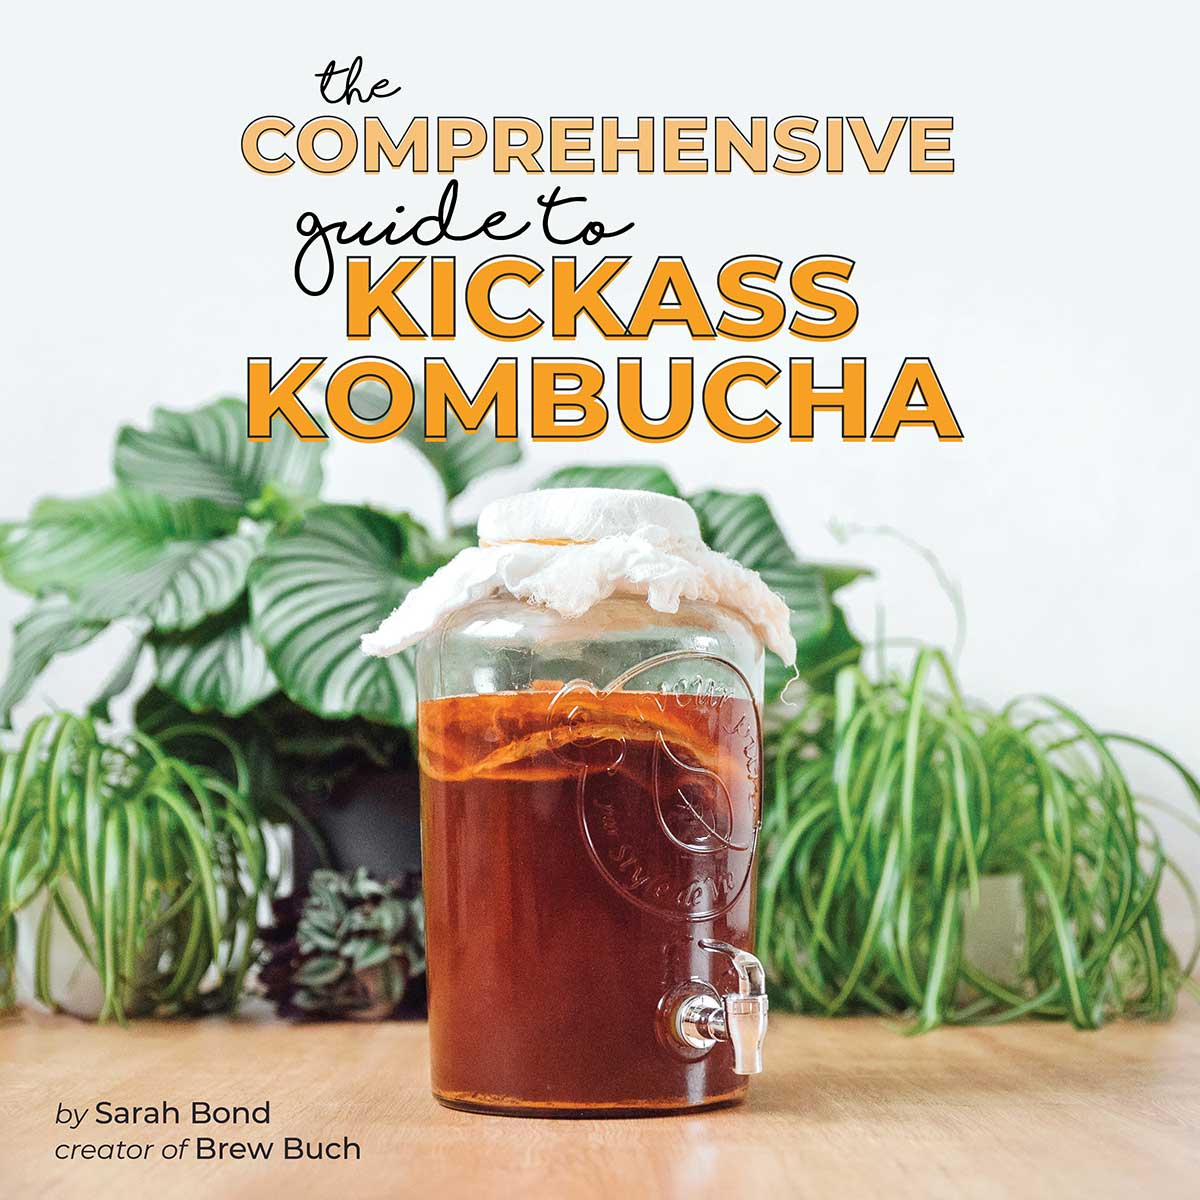
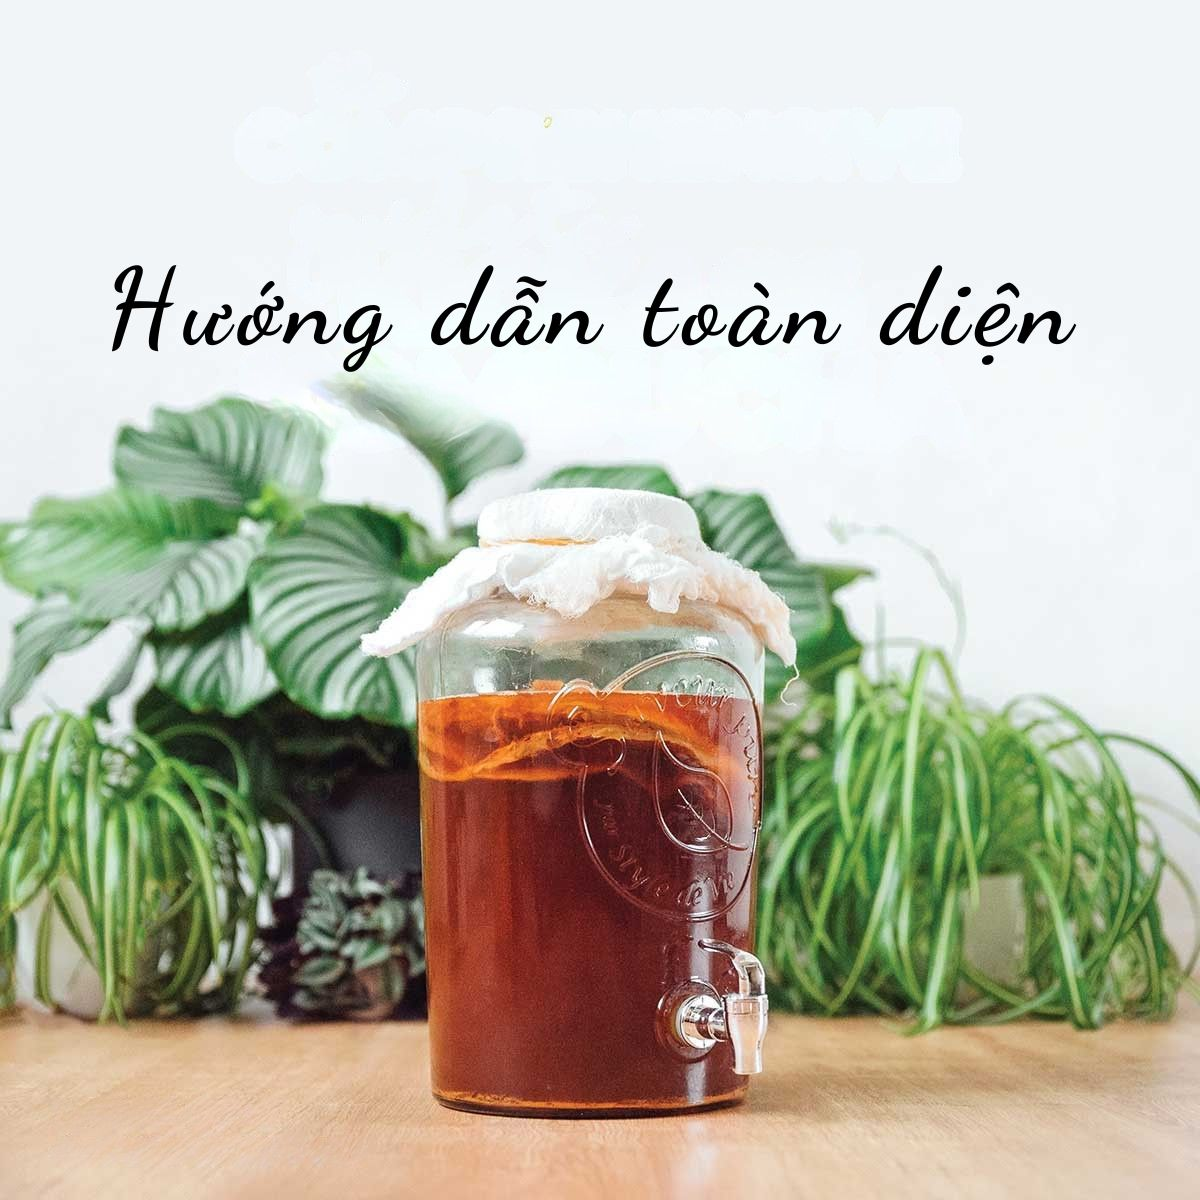
sửa shop

Changed region(s): [[0.0925, 0.0308, 0.8942, 0.37], [0.0308, 0.8942, 0.3083, 0.9867]]

diff --git a/assets/views/shop.html b/assets/views/shop.html
@@ -52,27 +52,27 @@
             <p>Bạn không thể ủ Kombucha ngon nếu không có bí quyết! Dưới đây là những tài liệu của chúng tôi có thể giúp bạn tạo được Kombucha tuyệt hảo</p>
             <div class="guides">
                 <figure class="guide">
-                    <img src="../images/shop/guide to KICKASS KOMBUCHA.jpg" class="img-square">
+                    <img src="../images/shop/kickass-comprehensive.jpg" class="img-square">
                     <figcaption class="img-cap">
                         Sách hướng dẫn toàn diện<br><a class="highlight">Mua tại đây</a>
                     </figcaption>
                 </figure>
                 <figure class="guide">
-                    <img src="../images/shop/KICKASS.jpg" class="img-square">
+                    <img src="../images/shop/kickass-tracker.jpg" class="img-square">
                     <figcaption class="img-cap">Lịch trình theo dõi Kombucha <br>
                         <b>Sắp ra mắt</b></figcaption>
                 </figure>
             </div>
             <div class="guides">
                 <figure class="guide">
-                    <img src="../images/shop/Tham gia cộng đồng.jpg" class="img-square">
+                    <img src="../images/shop/kickass-community.jpg" class="img-square">
                     <figcaption class="img-cap">
                         Cộng đồng Facebook<br>
                         <a class="highlight">Tham gia ngay</a>
                     </figcaption>
                 </figure>
                 <figure class="guide">
-                    <img src="../images/shop/HƯỚNG DẪN CƠ BẢN LÀM KOMBUCHA.jpg" class="img-square">
+                    <img src="../images/shop/kickass-guide.jpg" class="img-square">
                     <figcaption class="img-cap">
                         Công thức Kombucha cơ bản <br>
                         <a class="highlight">Tải ngay</a>
@@ -213,7 +213,7 @@
                 </figure>
                 <figure class="product">
                     <div class="wrapper">
-                        <img src="../images/shop/vingar2.jpg" class="img-square">
+                        <img src="../images/shop/vingar.jpg" class="img-square">
                         <div class="addToCart">Thêm vào giỏ hàng</div>
                     </div>
                     <figcaption class="img-cap">

diff --git a/assets/css/shop.css b/assets/css/shop.css
@@ -45,6 +45,7 @@ body{
 }
 .products .product:hover{
     box-shadow: 3px 3px 10px rgba(0, 0, 0, 0.2);
+    z-index: 10;
 }
 .products .product:hover .img-square{
     transform: scale(1.1);
@@ -72,7 +73,7 @@ body{
     font-weight: 600;
     color: rgb(51, 51, 51);
 }
-.img-square{
+.wrapper{
     overflow: hidden;
 }
 .addToCart{
